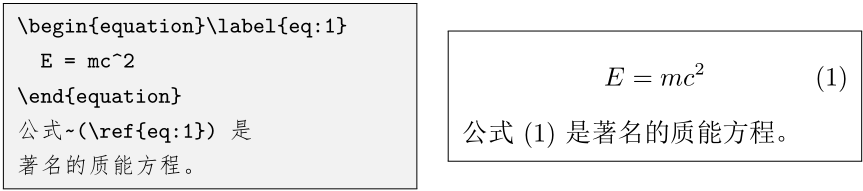
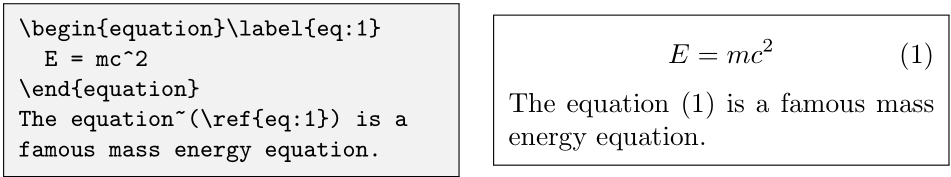
Site updated: 2020-08-22 13:22:49

diff --git a/2020/04/29/2020-04-29-Make-an-example-environment-with-minted/index.html b/2020/04/29/2020-04-29-Make-an-example-environment-with-minted/index.html
@@ -19,7 +19,7 @@
 <p>比较喜欢 <code>lshort-zh-cn</code> 中 <code>example</code> 环境的风格</p>
 <h1 id="实现"><a class="markdownIt-Anchor" href="#实现"></a> 实现</h1>
 <p>找到其<a href="https://github.com/CTeX-org/lshort-zh-cn/blob/73be65b2bce78280d6800752fe0893707e4238af/src/lshort-zh-cn-style.sty#L253-L291" target="_blank" rel="noopener">源码</a>，MWE 如下</p>
-<figure class="highlight tex"><table><tr><td class="code"><pre><span class="line"><span class="tag">\<span class="name">documentclass</span><span class="string">&#123;ctexart&#125;</span></span></span><br><span class="line"><span class="tag">\<span class="name">usepackage</span><span class="string">&#123;verbatim&#125;</span></span></span><br><span class="line"><span class="tag">\<span class="name">usepackage</span><span class="string">&#123;xcolor&#125;</span></span></span><br><span class="line"></span><br><span class="line"><span class="tag">\<span class="name">makeatletter</span></span></span><br><span class="line"><span class="tag">\<span class="name">newwrite</span></span><span class="tag">\<span class="name">example</span></span>@out</span><br><span class="line"><span class="tag">\<span class="name">newlength</span></span><span class="tag">\<span class="name">savefboxrule</span></span></span><br><span class="line"><span class="tag">\<span class="name">newlength</span></span><span class="tag">\<span class="name">savefboxsep</span></span></span><br><span class="line"><span class="tag">\<span class="name">edef</span></span><span class="tag">\<span class="name">example</span></span>@name&#123;<span class="tag">\<span class="name">jobname</span></span>-example.aux&#125;</span><br><span class="line"><span class="tag">\<span class="name">newenvironment</span><span class="string">&#123;example&#125;</span></span><span class="comment">%</span></span><br><span class="line">&#123;<span class="tag">\<span class="name">begingroup</span></span><span class="tag">\<span class="name">@</span></span>bsphack</span><br><span class="line">  <span class="tag">\<span class="name">immediate</span></span><span class="tag">\<span class="name">openout</span></span><span class="tag">\<span class="name">example</span></span>@out=<span class="tag">\<span class="name">example</span></span>@name</span><br><span class="line">  <span class="tag">\<span class="name">let</span></span><span class="tag">\<span class="name">do</span></span><span class="tag">\<span class="name">@</span></span>makeother<span class="tag">\<span class="name">dospecials</span></span><span class="tag">\<span class="name">catcode</span></span>`<span class="tag">\<span class="name">^</span></span>^M<span class="tag">\<span class="name">active</span></span></span><br><span class="line">  <span class="tag">\<span class="name">def</span></span><span class="tag">\<span class="name">verbatim</span></span>@processline&#123;<span class="tag">\<span class="name">immediate</span></span><span class="tag">\<span class="name">write</span></span><span class="tag">\<span class="name">example</span></span>@out&#123;<span class="tag">\<span class="name">the</span></span><span class="tag">\<span class="name">verbatim</span></span>@line&#125;&#125;<span class="comment">%</span></span><br><span class="line">  <span class="tag">\<span class="name">verbatim</span></span>@start&#125;<span class="comment">%</span></span><br><span class="line">&#123;<span class="tag">\<span class="name">immediate</span></span><span class="tag">\<span class="name">closeout</span></span><span class="tag">\<span class="name">example</span></span>@out<span class="tag">\<span class="name">@</span></span>esphack<span class="tag">\<span class="name">endgroup</span></span><span class="comment">%</span></span><br><span class="line">  <span class="tag">\<span class="name">trivlist</span></span><span class="tag">\<span class="name">item</span></span><span class="tag">\<span class="name">relax</span></span></span><br><span class="line">  <span class="tag">\<span class="name">setlength</span><span class="string">&#123;\savefboxrule&#125;</span><span class="string">&#123;\fboxrule&#125;</span></span><span class="comment">%</span></span><br><span class="line">  <span class="tag">\<span class="name">setlength</span><span class="string">&#123;\savefboxsep&#125;</span><span class="string">&#123;\fboxsep&#125;</span></span><span class="comment">%</span></span><br><span class="line">  <span class="tag">\<span class="name">setlength</span><span class="string">&#123;\fboxsep&#125;</span><span class="string">&#123;0.015\textwidth&#125;</span></span><span class="comment">%</span></span><br><span class="line">  <span class="tag">\<span class="name">setlength</span><span class="string">&#123;\fboxrule&#125;</span><span class="string">&#123;0.4pt&#125;</span></span><span class="comment">%</span></span><br><span class="line">  <span class="tag">\<span class="name">fcolorbox</span><span class="string">[gray]</span><span class="string">&#123;0&#125;</span><span class="string">&#123;0.95&#125;</span><span class="string">&#123;%</span></span></span><br><span class="line"><span class="tag"><span class="string">    \begin&#123;minipage&#125;</span><span class="string">[c]</span><span class="string">&#123;0.45\textwidth&#125;</span></span><span class="comment">%</span></span><br><span class="line">      <span class="tag">\<span class="name">setlength</span><span class="string">&#123;\fboxrule&#125;</span><span class="string">&#123;\savefboxrule&#125;</span></span><span class="comment">%</span></span><br><span class="line">      <span class="tag">\<span class="name">setlength</span><span class="string">&#123;\fboxsep&#125;</span><span class="string">&#123;\savefboxsep&#125;</span></span><span class="comment">%</span></span><br><span class="line">      <span class="tag">\<span class="name">small</span></span><span class="tag">\<span class="name">verbatiminput</span><span class="string">&#123;\example@name&#125;</span></span><span class="comment">%</span></span><br><span class="line">    <span class="tag">\<span class="name">end</span><span class="string">&#123;minipage&#125;</span></span><span class="comment">%</span></span><br><span class="line">  &#125;<span class="comment">%</span></span><br><span class="line">  <span class="tag">\<span class="name">hfill</span></span><span class="comment">%</span></span><br><span class="line">  <span class="tag">\<span class="name">fbox</span><span class="string">&#123;%</span></span></span><br><span class="line"><span class="tag"><span class="string">    \begin&#123;minipage&#125;</span><span class="string">[c]</span><span class="string">&#123;0.45\textwidth&#125;</span></span><span class="comment">%</span></span><br><span class="line">      <span class="tag">\<span class="name">setlength</span><span class="string">&#123;\fboxrule&#125;</span><span class="string">&#123;\savefboxrule&#125;</span></span><span class="comment">%</span></span><br><span class="line">      <span class="tag">\<span class="name">setlength</span><span class="string">&#123;\fboxsep&#125;</span><span class="string">&#123;\savefboxsep&#125;</span></span><span class="comment">%</span></span><br><span class="line">      <span class="tag">\<span class="name">setlength</span><span class="string">&#123;\parskip&#125;</span><span class="string">&#123;1ex plus 0.4ex minus 0.2ex&#125;</span></span><span class="comment">%</span></span><br><span class="line">      <span class="tag">\<span class="name">normalsize</span></span><span class="tag">\<span class="name">input</span><span class="string">&#123;\example@name&#125;</span></span><span class="comment">%</span></span><br><span class="line">    <span class="tag">\<span class="name">end</span><span class="string">&#123;minipage&#125;</span></span><span class="comment">%</span></span><br><span class="line">  &#125;<span class="comment">%</span></span><br><span class="line">  <span class="tag">\<span class="name">endtrivlist</span></span></span><br><span class="line">&#125;</span><br><span class="line"><span class="tag">\<span class="name">makeatother</span></span></span><br><span class="line"><span class="tag">\<span class="name">begin</span><span class="string">&#123;document&#125;</span></span></span><br><span class="line"><span class="tag">\<span class="name">begin</span><span class="string">&#123;example&#125;</span></span></span><br><span class="line"><span class="tag">\<span class="name">begin</span><span class="string">&#123;equation&#125;</span></span><span class="tag">\<span class="name">label</span><span class="string">&#123;eq:1&#125;</span></span></span><br><span class="line">  E = mc^2</span><br><span class="line"><span class="tag">\<span class="name">end</span><span class="string">&#123;equation&#125;</span></span></span><br><span class="line">公式~(<span class="tag">\<span class="name">ref</span><span class="string">&#123;eq:1&#125;</span></span>) 是</span><br><span class="line">著名的质能方程。</span><br><span class="line"><span class="tag">\<span class="name">end</span><span class="string">&#123;example&#125;</span></span></span><br><span class="line"><span class="tag">\<span class="name">end</span><span class="string">&#123;document&#125;</span></span></span><br></pre></td></tr></table></figure>
+<figure class="highlight tex"><table><tr><td class="code"><pre><span class="line"><span class="tag">\<span class="name">documentclass</span><span class="string">&#123;article&#125;</span></span></span><br><span class="line"><span class="tag">\<span class="name">usepackage</span><span class="string">&#123;verbatim,xcolor&#125;</span></span></span><br><span class="line"></span><br><span class="line"><span class="tag">\<span class="name">makeatletter</span></span></span><br><span class="line"><span class="tag">\<span class="name">newwrite</span></span><span class="tag">\<span class="name">example</span></span>@out</span><br><span class="line"><span class="tag">\<span class="name">newlength</span></span><span class="tag">\<span class="name">savefboxrule</span></span></span><br><span class="line"><span class="tag">\<span class="name">newlength</span></span><span class="tag">\<span class="name">savefboxsep</span></span></span><br><span class="line"><span class="tag">\<span class="name">edef</span></span><span class="tag">\<span class="name">example</span></span>@name&#123;<span class="tag">\<span class="name">jobname</span></span>-example.aux&#125;</span><br><span class="line"><span class="tag">\<span class="name">newenvironment</span><span class="string">&#123;example&#125;</span></span><span class="comment">%</span></span><br><span class="line">&#123;<span class="tag">\<span class="name">begingroup</span></span><span class="tag">\<span class="name">@</span></span>bsphack</span><br><span class="line">  <span class="tag">\<span class="name">immediate</span></span><span class="tag">\<span class="name">openout</span></span><span class="tag">\<span class="name">example</span></span>@out=<span class="tag">\<span class="name">example</span></span>@name</span><br><span class="line">  <span class="tag">\<span class="name">let</span></span><span class="tag">\<span class="name">do</span></span><span class="tag">\<span class="name">@</span></span>makeother<span class="tag">\<span class="name">dospecials</span></span><span class="tag">\<span class="name">catcode</span></span>`<span class="tag">\<span class="name">^</span></span>^M<span class="tag">\<span class="name">active</span></span></span><br><span class="line">  <span class="tag">\<span class="name">def</span></span><span class="tag">\<span class="name">verbatim</span></span>@processline&#123;<span class="tag">\<span class="name">immediate</span></span><span class="tag">\<span class="name">write</span></span><span class="tag">\<span class="name">example</span></span>@out&#123;<span class="tag">\<span class="name">the</span></span><span class="tag">\<span class="name">verbatim</span></span>@line&#125;&#125;<span class="comment">%</span></span><br><span class="line">  <span class="tag">\<span class="name">verbatim</span></span>@start&#125;<span class="comment">%</span></span><br><span class="line">&#123;<span class="tag">\<span class="name">immediate</span></span><span class="tag">\<span class="name">closeout</span></span><span class="tag">\<span class="name">example</span></span>@out<span class="tag">\<span class="name">@</span></span>esphack<span class="tag">\<span class="name">endgroup</span></span><span class="comment">%</span></span><br><span class="line">  <span class="tag">\<span class="name">trivlist</span></span><span class="tag">\<span class="name">item</span></span><span class="tag">\<span class="name">relax</span></span></span><br><span class="line">  <span class="tag">\<span class="name">setlength</span><span class="string">&#123;\savefboxrule&#125;</span><span class="string">&#123;\fboxrule&#125;</span></span><span class="comment">%</span></span><br><span class="line">  <span class="tag">\<span class="name">setlength</span><span class="string">&#123;\savefboxsep&#125;</span><span class="string">&#123;\fboxsep&#125;</span></span><span class="comment">%</span></span><br><span class="line">  <span class="tag">\<span class="name">setlength</span><span class="string">&#123;\fboxsep&#125;</span><span class="string">&#123;0.015\textwidth&#125;</span></span><span class="comment">%</span></span><br><span class="line">  <span class="tag">\<span class="name">setlength</span><span class="string">&#123;\fboxrule&#125;</span><span class="string">&#123;0.4pt&#125;</span></span><span class="comment">%</span></span><br><span class="line">  <span class="tag">\<span class="name">fcolorbox</span><span class="string">[gray]</span><span class="string">&#123;0&#125;</span><span class="string">&#123;0.95&#125;</span><span class="string">&#123;%</span></span></span><br><span class="line"><span class="tag"><span class="string">    \begin&#123;minipage&#125;</span><span class="string">[c]</span><span class="string">&#123;0.45\textwidth&#125;</span></span><span class="comment">%</span></span><br><span class="line">      <span class="tag">\<span class="name">setlength</span><span class="string">&#123;\fboxrule&#125;</span><span class="string">&#123;\savefboxrule&#125;</span></span><span class="comment">%</span></span><br><span class="line">      <span class="tag">\<span class="name">setlength</span><span class="string">&#123;\fboxsep&#125;</span><span class="string">&#123;\savefboxsep&#125;</span></span><span class="comment">%</span></span><br><span class="line">      <span class="tag">\<span class="name">small</span></span><span class="tag">\<span class="name">verbatiminput</span><span class="string">&#123;\example@name&#125;</span></span><span class="comment">%</span></span><br><span class="line">    <span class="tag">\<span class="name">end</span><span class="string">&#123;minipage&#125;</span></span><span class="comment">%</span></span><br><span class="line">  &#125;<span class="comment">%</span></span><br><span class="line">  <span class="tag">\<span class="name">hfill</span></span><span class="comment">%</span></span><br><span class="line">  <span class="tag">\<span class="name">fbox</span><span class="string">&#123;%</span></span></span><br><span class="line"><span class="tag"><span class="string">    \begin&#123;minipage&#125;</span><span class="string">[c]</span><span class="string">&#123;0.45\textwidth&#125;</span></span><span class="comment">%</span></span><br><span class="line">      <span class="tag">\<span class="name">setlength</span><span class="string">&#123;\fboxrule&#125;</span><span class="string">&#123;\savefboxrule&#125;</span></span><span class="comment">%</span></span><br><span class="line">      <span class="tag">\<span class="name">setlength</span><span class="string">&#123;\fboxsep&#125;</span><span class="string">&#123;\savefboxsep&#125;</span></span><span class="comment">%</span></span><br><span class="line">      <span class="tag">\<span class="name">setlength</span><span class="string">&#123;\parskip&#125;</span><span class="string">&#123;1ex plus 0.4ex minus 0.2ex&#125;</span></span><span class="comment">%</span></span><br><span class="line">      <span class="tag">\<span class="name">normalsize</span></span><span class="tag">\<span class="name">input</span><span class="string">&#123;\example@name&#125;</span></span><span class="comment">%</span></span><br><span class="line">    <span class="tag">\<span class="name">end</span><span class="string">&#123;minipage&#125;</span></span><span class="comment">%</span></span><br><span class="line">  &#125;<span class="comment">%</span></span><br><span class="line">  <span class="tag">\<span class="name">endtrivlist</span></span></span><br><span class="line">&#125;</span><br><span class="line"><span class="tag">\<span class="name">makeatother</span></span></span><br><span class="line"><span class="tag">\<span class="name">begin</span><span class="string">&#123;document&#125;</span></span></span><br><span class="line"><span class="tag">\<span class="name">begin</span><span class="string">&#123;example&#125;</span></span></span><br><span class="line"><span class="tag">\<span class="name">begin</span><span class="string">&#123;equation&#125;</span></span><span class="tag">\<span class="name">label</span><span class="string">&#123;eq:1&#125;</span></span></span><br><span class="line">  E = mc^2</span><br><span class="line"><span class="tag">\<span class="name">end</span><span class="string">&#123;equation&#125;</span></span></span><br><span class="line">The equation~(<span class="tag">\<span class="name">ref</span><span class="string">&#123;eq:1&#125;</span></span>) is a</span><br><span class="line">famous mass energy equation.</span><br><span class="line"><span class="tag">\<span class="name">end</span><span class="string">&#123;example&#125;</span></span></span><br><span class="line"><span class="tag">\<span class="name">end</span><span class="string">&#123;document&#125;</span></span></span><br></pre></td></tr></table></figure>
 <p>效果为<br>
 <img src="/2020/04/29/2020-04-29-Make-an-example-environment-with-minted/2020-04-29-01.png" alt></p>
 <p>不满意其代码区效果，想用 <code>minted</code> 宏包配合 <code>sourcecodepro</code> 宏包制作代码区，做了一部分尝试，更多讨论见《<a href="https://github.com/CTeX-org/forum/issues/113" target="_blank" rel="noopener">如何让 lshort-zh-cn 的 example 环境中的代码部分变为用 minted 宏包排版？</a>》</p>

diff --git a/2020/03/08/2020-03-08-mcm/index.html b/2020/03/08/2020-03-08-mcm/index.html
@@ -1,4 +1,4 @@
-<!DOCTYPE html><html lang="zh-Hans"><head><meta charset="UTF-8"><meta http-equiv="X-UA-Compatible" content="IE=edge"><meta name="viewport" content="width=device-width, initial-scale=1, maximum-scale=1"><meta name="description" content="美赛相关的一些东西"><meta name="keywords" content="LaTeX,美赛,数学建模"><meta name="author" content="sikouhjw"><meta name="copyright" content="sikouhjw"><title>美赛相关的一些东西 | sikouhjw.gitee.io</title><link rel="shortcut icon" href="/melody-favicon.ico"><link rel="stylesheet" href="/css/index.css?version=1.7.0"><link rel="stylesheet" href="https://cdn.jsdelivr.net/npm/font-awesome@latest/css/font-awesome.min.css?version=1.7.0"><link rel="stylesheet" href="https://use.fontawesome.com/releases/v5.3.1/css/all.css?version=1.7.0"><meta name="format-detection" content="telephone=no"><meta http-equiv="x-dns-prefetch-control" content="on"><link rel="dns-prefetch" href="https://cdn.jsdelivr.net"><meta http-equiv="Cache-Control" content="no-transform"><meta http-equiv="Cache-Control" content="no-siteapp"><script>var GLOBAL_CONFIG = { 
+<!DOCTYPE html><html lang="zh-Hans"><head><meta charset="UTF-8"><meta http-equiv="X-UA-Compatible" content="IE=edge"><meta name="viewport" content="width=device-width, initial-scale=1, maximum-scale=1"><meta name="description" content="美赛相关的一些东西"><meta name="keywords" content="LaTeX,数学建模,美赛"><meta name="author" content="sikouhjw"><meta name="copyright" content="sikouhjw"><title>美赛相关的一些东西 | sikouhjw.gitee.io</title><link rel="shortcut icon" href="/melody-favicon.ico"><link rel="stylesheet" href="/css/index.css?version=1.7.0"><link rel="stylesheet" href="https://cdn.jsdelivr.net/npm/font-awesome@latest/css/font-awesome.min.css?version=1.7.0"><link rel="stylesheet" href="https://use.fontawesome.com/releases/v5.3.1/css/all.css?version=1.7.0"><meta name="format-detection" content="telephone=no"><meta http-equiv="x-dns-prefetch-control" content="on"><link rel="dns-prefetch" href="https://cdn.jsdelivr.net"><meta http-equiv="Cache-Control" content="no-transform"><meta http-equiv="Cache-Control" content="no-siteapp"><script>var GLOBAL_CONFIG = { 
   root: '/',
   algolia: undefined,
   localSearch: undefined,
@@ -50,7 +50,7 @@
 </ul>
 <h1 id="修正美国数学建模-2020-年更新版本-63-的一个-bug"><a class="markdownIt-Anchor" href="#修正美国数学建模-2020-年更新版本-63-的一个-bug"></a> 修正美国数学建模 2020 年更新版本 6.3 的一个 bug</h1>
 <p>由于 <code>\section</code> 和 <code>\subsection</code> 后首段缩进了，可以将 <code>cls</code> 文件中第 298、302 行的 <code>-0pt</code> 改为 <code>-1sp</code>，问题解决</p>
-</div></article><div class="post-copyright"><div class="post-copyright__author"><span class="post-copyright-meta">文章作者: </span><span class="post-copyright-info"><a href="mailto:undefined">sikouhjw</a></span></div><div class="post-copyright__type"><span class="post-copyright-meta">文章链接: </span><span class="post-copyright-info"><a href="https://sikouhjw.gitee.io/2020/03/08/2020-03-08-mcm/">https://sikouhjw.gitee.io/2020/03/08/2020-03-08-mcm/</a></span></div><div class="post-copyright__notice"><span class="post-copyright-meta">版权声明: </span><span class="post-copyright-info">本博客所有文章除特别声明外，均采用 <a href="https://creativecommons.org/licenses/by-nc-sa/4.0/" target="_blank" rel="noopener">CC BY-NC-SA 4.0</a> 许可协议。转载请注明来自 <a href="https://sikouhjw.gitee.io">sikouhjw.gitee.io</a>！</span></div></div><div class="post-meta__tag-list"><a class="post-meta__tags" href="/tags/LaTeX/">LaTeX</a><a class="post-meta__tags" href="/tags/%E7%BE%8E%E8%B5%9B/">美赛</a><a class="post-meta__tags" href="/tags/%E6%95%B0%E5%AD%A6%E5%BB%BA%E6%A8%A1/">数学建模</a></div><nav id="pagination"><div class="prev-post pull-left"><a href="/2020/03/08/2020-03-08-ask-questions/"><i class="fa fa-chevron-left">  </i><span>（我的）LaTeX 提问流程</span></a></div><div class="next-post pull-right"><a href="/2020/03/08/2020-03-08-Learn-LaTeX/"><span>关于 LaTeX 入门的一些东西</span><i class="fa fa-chevron-right"></i></a></div></nav></div></div><footer><div class="layout" id="footer"><div class="copyright">&copy;2020 By sikouhjw</div><div class="framework-info"><span>驱动 - </span><a href="http://hexo.io" target="_blank" rel="noopener"><span>Hexo</span></a><span class="footer-separator">|</span><span>主题 - </span><a href="https://github.com/Molunerfinn/hexo-theme-melody" target="_blank" rel="noopener"><span>Melody</span></a></div><div class="busuanzi"><script async src="//busuanzi.ibruce.info/busuanzi/2.3/busuanzi.pure.mini.js"></script><span id="busuanzi_container_page_pv"><i class="fa fa-file-o"></i><span id="busuanzi_value_page_pv"></span><span></span></span></div></div></footer><i class="fa fa-arrow-up" id="go-up" aria-hidden="true"></i><script src="https://cdn.jsdelivr.net/npm/animejs@latest/anime.min.js"></script><script src="https://cdn.jsdelivr.net/npm/jquery@latest/dist/jquery.min.js"></script><script src="https://cdn.jsdelivr.net/npm/@fancyapps/fancybox@latest/dist/jquery.fancybox.min.js"></script><script src="https://cdn.jsdelivr.net/npm/velocity-animate@latest/velocity.min.js"></script><script src="https://cdn.jsdelivr.net/npm/velocity-ui-pack@latest/velocity.ui.min.js"></script><script src="/js/utils.js?version=1.7.0"></script><script src="/js/fancybox.js?version=1.7.0"></script><script src="/js/sidebar.js?version=1.7.0"></script><script src="/js/copy.js?version=1.7.0"></script><script src="/js/fireworks.js?version=1.7.0"></script><script src="/js/transition.js?version=1.7.0"></script><script src="/js/scroll.js?version=1.7.0"></script><script src="/js/head.js?version=1.7.0"></script><link rel="stylesheet" type="text/css" href="https://cdn.jsdelivr.net/npm/katex@latest/dist/katex.min.css"><script src="https://cdn.jsdelivr.net/npm/katex-copytex@latest/dist/katex-copytex.min.js"></script><link rel="stylesheet" type="text/css" href="https://cdn.jsdelivr.net/npm/katex-copytex@latest/dist/katex-copytex.min.css"><script src="/js/katex.js"></script><script>if(/Android|webOS|iPhone|iPod|iPad|BlackBerry/i.test(navigator.userAgent)) {
+</div></article><div class="post-copyright"><div class="post-copyright__author"><span class="post-copyright-meta">文章作者: </span><span class="post-copyright-info"><a href="mailto:undefined">sikouhjw</a></span></div><div class="post-copyright__type"><span class="post-copyright-meta">文章链接: </span><span class="post-copyright-info"><a href="https://sikouhjw.gitee.io/2020/03/08/2020-03-08-mcm/">https://sikouhjw.gitee.io/2020/03/08/2020-03-08-mcm/</a></span></div><div class="post-copyright__notice"><span class="post-copyright-meta">版权声明: </span><span class="post-copyright-info">本博客所有文章除特别声明外，均采用 <a href="https://creativecommons.org/licenses/by-nc-sa/4.0/" target="_blank" rel="noopener">CC BY-NC-SA 4.0</a> 许可协议。转载请注明来自 <a href="https://sikouhjw.gitee.io">sikouhjw.gitee.io</a>！</span></div></div><div class="post-meta__tag-list"><a class="post-meta__tags" href="/tags/LaTeX/">LaTeX</a><a class="post-meta__tags" href="/tags/%E6%95%B0%E5%AD%A6%E5%BB%BA%E6%A8%A1/">数学建模</a><a class="post-meta__tags" href="/tags/%E7%BE%8E%E8%B5%9B/">美赛</a></div><nav id="pagination"><div class="prev-post pull-left"><a href="/2020/03/08/2020-03-08-ask-questions/"><i class="fa fa-chevron-left">  </i><span>（我的）LaTeX 提问流程</span></a></div><div class="next-post pull-right"><a href="/2020/03/08/2020-03-08-Learn-LaTeX/"><span>关于 LaTeX 入门的一些东西</span><i class="fa fa-chevron-right"></i></a></div></nav></div></div><footer><div class="layout" id="footer"><div class="copyright">&copy;2020 By sikouhjw</div><div class="framework-info"><span>驱动 - </span><a href="http://hexo.io" target="_blank" rel="noopener"><span>Hexo</span></a><span class="footer-separator">|</span><span>主题 - </span><a href="https://github.com/Molunerfinn/hexo-theme-melody" target="_blank" rel="noopener"><span>Melody</span></a></div><div class="busuanzi"><script async src="//busuanzi.ibruce.info/busuanzi/2.3/busuanzi.pure.mini.js"></script><span id="busuanzi_container_page_pv"><i class="fa fa-file-o"></i><span id="busuanzi_value_page_pv"></span><span></span></span></div></div></footer><i class="fa fa-arrow-up" id="go-up" aria-hidden="true"></i><script src="https://cdn.jsdelivr.net/npm/animejs@latest/anime.min.js"></script><script src="https://cdn.jsdelivr.net/npm/jquery@latest/dist/jquery.min.js"></script><script src="https://cdn.jsdelivr.net/npm/@fancyapps/fancybox@latest/dist/jquery.fancybox.min.js"></script><script src="https://cdn.jsdelivr.net/npm/velocity-animate@latest/velocity.min.js"></script><script src="https://cdn.jsdelivr.net/npm/velocity-ui-pack@latest/velocity.ui.min.js"></script><script src="/js/utils.js?version=1.7.0"></script><script src="/js/fancybox.js?version=1.7.0"></script><script src="/js/sidebar.js?version=1.7.0"></script><script src="/js/copy.js?version=1.7.0"></script><script src="/js/fireworks.js?version=1.7.0"></script><script src="/js/transition.js?version=1.7.0"></script><script src="/js/scroll.js?version=1.7.0"></script><script src="/js/head.js?version=1.7.0"></script><link rel="stylesheet" type="text/css" href="https://cdn.jsdelivr.net/npm/katex@latest/dist/katex.min.css"><script src="https://cdn.jsdelivr.net/npm/katex-copytex@latest/dist/katex-copytex.min.js"></script><link rel="stylesheet" type="text/css" href="https://cdn.jsdelivr.net/npm/katex-copytex@latest/dist/katex-copytex.min.css"><script src="/js/katex.js"></script><script>if(/Android|webOS|iPhone|iPod|iPad|BlackBerry/i.test(navigator.userAgent)) {
   $('#nav').addClass('is-mobile')
   $('footer').addClass('is-mobile')
   $('#top-container').addClass('is-mobile')
